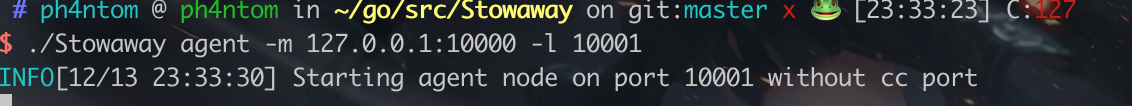
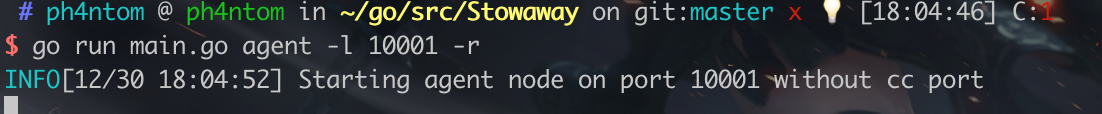
Add connect command

diff --git a/agent/agent.go b/agent/agent.go
@@ -7,7 +7,6 @@ import (
 	"net"
 	"os"
 	"os/signal"
-	"strings"
 	"sync"
 	"syscall"
 	"time"
@@ -54,25 +53,30 @@ func NewAgent(c *cli.Context) {
 	AESKey = []byte(c.String("secret"))
 	listenPort := c.String("listen")
 	//ccPort := c.String("control")
+	active := c.Bool("reverse")
 	monitor := c.String("monitor")
 	isStartNode := c.Bool("startnode")
 	Monitor = monitor
 	ListenPort = listenPort
-	if isStartNode {
+	if isStartNode && active == false {
 		go StartNodeInit(monitor, listenPort)
 		WaitForExit(NODEID)
-	} else {
+	} else if active == false {
 		go SimpleNodeInit(monitor, listenPort)
+		WaitForExit(NODEID)
+	} else if isStartNode && active {
+		go StartNodeReversemodeInit(monitor, listenPort)
+		WaitForExit(NODEID)
+	} else if active {
+		go SimpleNodeReversemodeInit(monitor, listenPort)
 		WaitForExit(NODEID)
 	}
 }
 
 // 后续想让startnode与simplenode实现不一样的功能，故将两种node实现代码分开写
-func StartNodeInit(monitor string, listenPort string) {
+func StartNodeInit(monitor, listenPort string) {
 	NODEID = uint32(1)
-	var finalid uint32
-	ControlConnToAdmin, DataConnToAdmin, finalid, err = node.StartNodeConn(monitor, listenPort, NODEID, AESKey)
-	NODEID = uint32(finalid)
+	ControlConnToAdmin, DataConnToAdmin, NODEID, err = node.StartNodeConn(monitor, listenPort, NODEID, AESKey)
 	if err != nil {
 		os.Exit(1)
 	}
@@ -91,11 +95,9 @@ func StartNodeInit(monitor string, listenPort string) {
 }
 
 //普通的node节点
-func SimpleNodeInit(monitor string, listenPort string) {
+func SimpleNodeInit(monitor, listenPort string) {
 	NODEID = uint32(0)
-	var finalid uint32
-	ControlConnToAdmin, DataConnToAdmin, finalid, _ = node.StartNodeConn(monitor, listenPort, NODEID, AESKey)
-	NODEID = uint32(finalid)
+	ControlConnToAdmin, DataConnToAdmin, NODEID, _ = node.StartNodeConn(monitor, listenPort, NODEID, AESKey)
 	go HandleSimpleNodeConn(ControlConnToAdmin, DataConnToAdmin, monitor, NODEID)
 	go node.StartNodeListen(listenPort, NODEID, AESKey)
 	for {
@@ -107,7 +109,42 @@ func SimpleNodeInit(monitor string, listenPort string) {
 		go ProxyLowerNodeCommToUpperNode(ControlConnToAdmin, LowerNodeCommChan)
 		go HandleLowerNodeConn(controlConnForLowerNode, dataConnForLowerNode, NODEID, LowerNodeCommChan)
 	}
+}
 
+//reverse mode下的startnode节点
+func StartNodeReversemodeInit(monitor, listenPort string) {
+	NODEID = uint32(1)
+	ControlConnToAdmin, DataConnToAdmin, NODEID, err = node.StartNodeConn(monitor, listenPort, NODEID, AESKey)
+	if err != nil {
+		os.Exit(1)
+	}
+	go HandleStartNodeConn(ControlConnToAdmin, DataConnToAdmin, monitor, NODEID)
+	for {
+		controlConnForLowerNode := <-node.ControlConnForLowerNodeChan
+		dataConnForLowerNode := <-node.DataConnForLowerNodeChan
+		NewNodeMessage := <-node.NewNodeMessageChan
+		PROXY_COMMAND_CHAN = make(chan []byte)
+		LowerNodeCommChan <- NewNodeMessage
+		go ProxyLowerNodeCommToUpperNode(ControlConnToAdmin, LowerNodeCommChan)
+		go HandleLowerNodeConn(controlConnForLowerNode, dataConnForLowerNode, NODEID, LowerNodeCommChan)
+	}
+}
+
+//reverse mode下的普通节点
+func SimpleNodeReversemodeInit(monitor, listenPort string) {
+	NODEID = uint32(0)
+	ControlConnToAdmin, DataConnToAdmin, NODEID = node.AcceptConnFromUpperNode(listenPort, NODEID, AESKey)
+	go HandleSimpleNodeConn(ControlConnToAdmin, DataConnToAdmin, monitor, NODEID)
+	go node.StartNodeListen(listenPort, NODEID, AESKey)
+	for {
+		controlConnForLowerNode := <-node.ControlConnForLowerNodeChan
+		dataConnForLowerNode := <-node.DataConnForLowerNodeChan
+		NewNodeMessage := <-node.NewNodeMessageChan
+		PROXY_COMMAND_CHAN = make(chan []byte)
+		LowerNodeCommChan <- NewNodeMessage
+		go ProxyLowerNodeCommToUpperNode(ControlConnToAdmin, LowerNodeCommChan)
+		go HandleLowerNodeConn(controlConnForLowerNode, dataConnForLowerNode, NODEID, LowerNodeCommChan)
+	}
 }
 
 //启动startnode
@@ -202,11 +239,7 @@ func HandleControlConnFromAdmin(controlConnToAdmin net.Conn, NODEID uint32) {
 				}
 			case "SOCKS":
 				logrus.Info("Get command to start SOCKS")
-				socksInit := strings.Split(command.Info, ":")
-				socksPort := socksInit[0]
-				SocksUsername = socksInit[1]
-				SocksPass = socksInit[2]
-				go StartSocks(controlConnToAdmin, socksPort, SocksUsername, SocksPass)
+				go StartSocks(controlConnToAdmin)
 			case "SOCKSOFF":
 				logrus.Info("Get command to stop SOCKS")
 			case "SSH":
@@ -219,6 +252,8 @@ func HandleControlConnFromAdmin(controlConnToAdmin net.Conn, NODEID uint32) {
 				}
 			case "SSHCOMMAND":
 				go WriteCommand(command.Info)
+			case "CONNECT":
+				go node.ConnectNextNode(command.Info, NODEID, AESKey)
 			case "ADMINOFFLINE":
 				logrus.Error("Admin seems offline!")
 				offlineCommand, _ := common.ConstructCommand("ADMINOFFLINE", "", 2, AESKey)
@@ -350,11 +385,7 @@ func HandleControlConnFromUpperNode(controlConnToUpperNode net.Conn, NODEID uint
 				}
 			case "SOCKS":
 				logrus.Info("Get command to start SOCKS")
-				socksInit := strings.Split(command.Info, ":")
-				socksPort := socksInit[0]
-				SocksUsername := socksInit[1]
-				SocksPass := socksInit[2]
-				go StartSocks(controlConnToUpperNode, socksPort, SocksUsername, SocksPass)
+				go StartSocks(controlConnToUpperNode)
 			case "SOCKSOFF":
 				logrus.Info("Get command to stop SOCKS")
 			case "SSH":
@@ -367,6 +398,8 @@ func HandleControlConnFromUpperNode(controlConnToUpperNode net.Conn, NODEID uint
 				}
 			case "SSHCOMMAND":
 				go WriteCommand(command.Info)
+			case "CONNECT":
+				go node.ConnectNextNode(command.Info, NODEID, AESKey)
 			case "ADMINOFFLINE":
 				logrus.Error("Admin seems offline")
 				offlineCommand, _ := common.ConstructCommand("ADMINOFFLINE", "", NODEID+1, AESKey)

diff --git a/node/init.go b/node/init.go
@@ -124,3 +124,84 @@ func StartNodeListen(listenPort string, NodeId uint32, key []byte) (net.Conn, ne
 		}
 	}
 }
+
+func ConnectNextNode(target string, nodeid uint32, key []byte) {
+	controlConnToNextNode, err := net.Dial("tcp", target)
+
+	if err != nil {
+		logrus.Error("Connection refused!")
+		return
+	}
+
+	for {
+		command, err := common.ExtractCommand(controlConnToNextNode, key)
+		if err != nil {
+			logrus.Error(err)
+			return
+		}
+		switch command.Command {
+		case "INIT":
+			respNodeID := nodeid + 1
+			respCommand, _ := common.ConstructCommand("ID", "", respNodeID, key)
+			_, err := controlConnToNextNode.Write(respCommand)
+			NewNodeMessage, _ = common.ConstructCommand("NEW", controlConnToNextNode.RemoteAddr().String(), respNodeID, key)
+			if err != nil {
+				logrus.Error(err)
+				continue
+			}
+		case "IDOK":
+			dataConnToNextNode, err := net.Dial("tcp", target)
+			if err != nil {
+				logrus.Error("Connection refused!")
+				return
+			}
+			ControlConnForLowerNodeChan <- controlConnToNextNode
+			DataConnForLowerNodeChan <- dataConnToNextNode
+			NewNodeMessageChan <- NewNodeMessage
+			return
+		}
+	}
+}
+
+func AcceptConnFromUpperNode(listenPort string, nodeid uint32, key []byte) (net.Conn, net.Conn, uint32) {
+	listenAddr := fmt.Sprintf("0.0.0.0:%s", listenPort)
+	WaitingForConn, err := net.Listen("tcp", listenAddr)
+	var (
+		flag        = false
+		history     string
+		controlconn [1]net.Conn
+	)
+
+	if err != nil {
+		logrus.Errorf("Cannot listen on port %s", listenPort)
+		os.Exit(1)
+	}
+
+	for {
+		Comingconn, err := WaitingForConn.Accept()
+		if err != nil {
+			logrus.Error(err)
+			continue
+		}
+		if flag == false {
+			respcommand, _ := common.ConstructCommand("INIT", listenPort, nodeid, key)
+			Comingconn.Write(respcommand)
+			command, _ := common.ExtractCommand(Comingconn, key)
+			if command.Command == "ID" {
+				nodeid = command.NodeId
+				respcommand, _ = common.ConstructCommand("IDOK", "", nodeid, key)
+				Comingconn.Write(respcommand)
+				flag = true
+				history = strings.Split(Comingconn.RemoteAddr().String(), ":")[0]
+				controlconn[0] = Comingconn
+			} else {
+				continue
+			}
+		} else if history == strings.Split(Comingconn.RemoteAddr().String(), ":")[0] {
+			WaitingForConn.Close()
+			return controlconn[0], Comingconn, nodeid
+		} else {
+			continue
+		}
+	}
+}

diff --git a/admin/admin.go b/admin/admin.go
@@ -40,7 +40,6 @@ var (
 	SocksListenerForClient net.Listener
 )
 
-//ClientSockets.ClientSocketsMap = make(map[uint32]net.Conn)
 //启动admin
 func NewAdmin(c *cli.Context) error {
 	ClientSockets = newSafeMap()
@@ -48,6 +47,11 @@ func NewAdmin(c *cli.Context) error {
 	listenPort := c.String("listen")
 	//ccPort := c.String("control")
 	Banner()
+	if len(AESKey) != 0 {
+		logrus.Info("Now Connection is encrypting with secret ", c.String("secret"))
+	} else {
+		logrus.Error("Now Connection is maintianed without any encryption!")
+	}
 	go StartListen(listenPort)
 	go AddToChain()
 	CliStatus = &InitStatus

diff --git a/admin/shell.go b/admin/shell.go
@@ -130,6 +130,15 @@ func HandleNodeCommand(startNodeControlConn net.Conn, NodeID string) {
 				ReadyChange <- true
 				IsShellMode <- true
 			}
+		case "connect":
+			if len(AdminCommand) == 2 {
+				respCommand, _ := common.ConstructCommand("CONNECT", AdminCommand[1], nodeID, AESKey)
+				startNodeControlConn.Write(respCommand)
+			} else {
+				fmt.Println("Wrong format! Should be connect [ip:port]")
+			}
+			ReadyChange <- true
+			IsShellMode <- true
 		case "help":
 			ShowNodeHelp()
 			ReadyChange <- true

diff --git a/admin/control.go b/admin/control.go
@@ -57,6 +57,7 @@ func ShowNodeHelp() {
 	ssh        [ip:port] [username] [pass]   Start SSH through selected node.
 	shell                                    Start an interactive shell on selected node.
 	socks      [lport]                       Start a socks5 server.
+	connect    [ip:port]					 Connect to new node
 	stopsocks                                Shut down corresponding socks service
   `)
 }

diff --git a/agent/socks.go b/agent/socks.go
@@ -7,7 +7,7 @@ import (
 	"strconv"
 )
 
-func StartSocks(controlConnToAdmin net.Conn, socksPort, socksUsername, socksPass string) {
+func StartSocks(controlConnToAdmin net.Conn) {
 	socksstartmess, _ := common.ConstructCommand("SOCKSRESP", "SUCCESS", NODEID, AESKey)
 	controlConnToAdmin.Write(socksstartmess)
 }

diff --git a/agent/command.go b/agent/command.go
@@ -36,6 +36,11 @@ var Command = &cli.Command{
 			Aliases: []string{"Startnode"},
 			Usage:   "act as startnode",
 		},
+		&cli.BoolFlag{
+			Name:    "reverse",
+			Aliases: []string{"r"},
+			Usage:   "connect to others actively",
+		},
 		&cli.StringFlag{
 			Name:    "monitor",
 			Aliases: []string{"m"},

diff --git a/README_EN.md b/README_EN.md
@@ -42,7 +42,7 @@ Simple example：
  
 ```
 ```
-  agent mode： ./stowaway agent -m 127.0.0.1:9999 -l 10000 --startnode -s 123
+  agent mode： ./stowaway agent -m 127.0.0.1:9999 -l 10000 --startnode -s 123 -r
   
   Meaning：
   
@@ -55,6 +55,8 @@ Simple example：
   -s    It means Stowaway has used 123 as the encrypt key during the communication 
 
   --startnode  It means Stowaway is started as FIRST agent node(if the node is the first one , you MUST add this option!!! And there are two submode of agent mode,if you want to start the second, third one....., just remove this option)
+
+  -r It means you want to start the node in reverse mode(For instance: you can add node 2 into the net via node 1 actively connect to node 2, instead of node 1 just waiting for the connection from node 2 )
 
   Be aware! -s option's value must be as same as the agents' 
 
@@ -74,10 +76,11 @@ Startnode：
 
 ![startnode](https://github.com/ph4ntonn/Stowaway/blob/master/img/startnode.png)
 
-First simple Node：
+First simple Node(setting as reverse mode）：
 
 ![node](https://github.com/ph4ntonn/Stowaway/blob/master/img/node1.png)
 
+Now, use admin and type in "use 1" -> "connect 127.0.0.1:10001" ,then you can add node 1 into the net
 
 Second simple Node：
 
@@ -124,6 +127,7 @@ For more detail, just type help to get further informations
 - [ ] Reconnection
 - [ ] Clean codes, optimize logic
 - [ ] Add cc function
+- [x] Add reverse connect mode
 
 ### Attention
 
